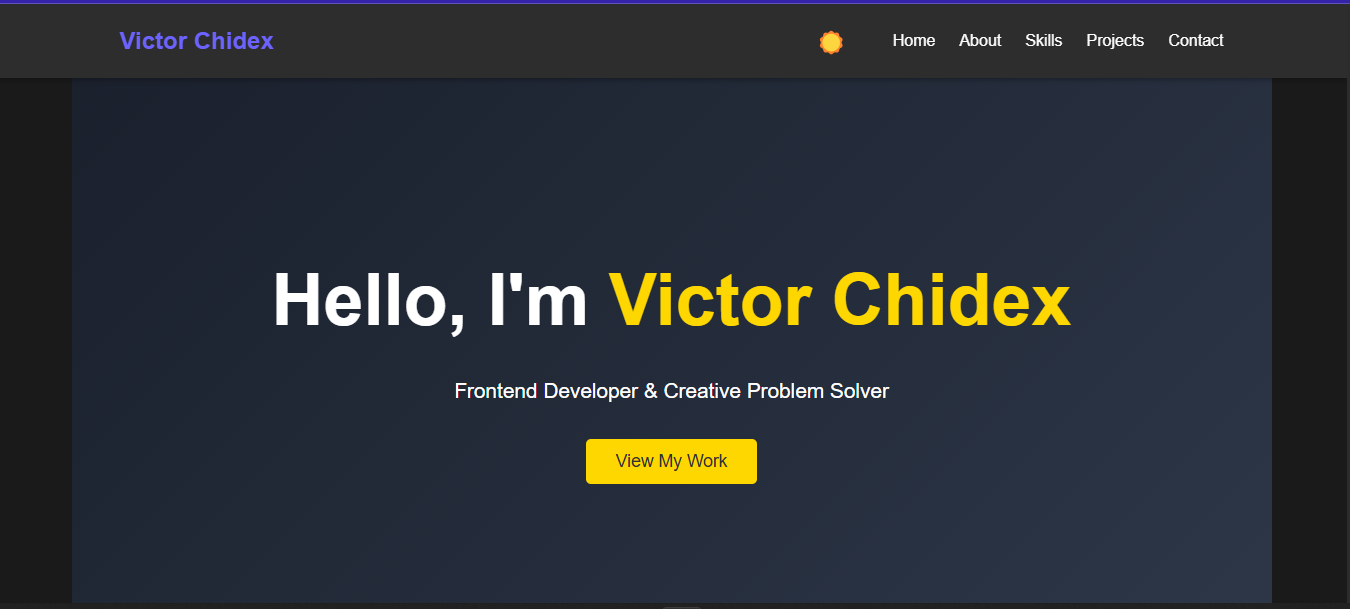
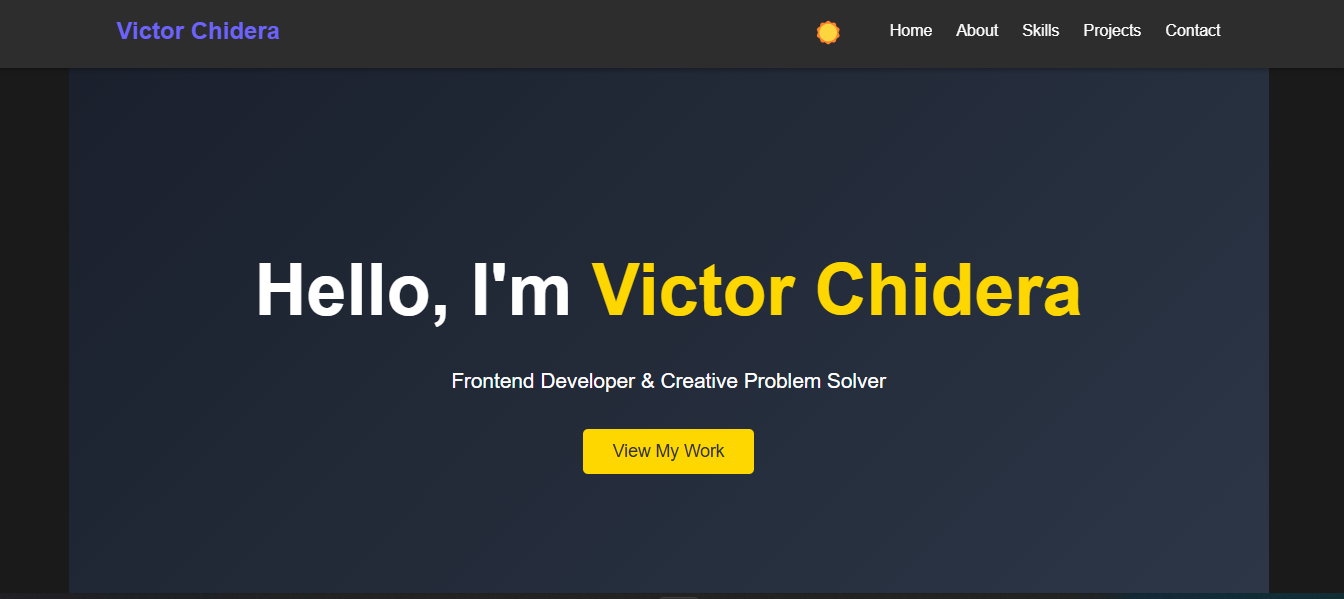
Replaced portfolio website image

diff --git a/projects/portfolio-website.html b/projects/portfolio-website.html
@@ -3,7 +3,7 @@
   <head>
     <meta charset="UTF-8" />
     <meta name="viewport" content="width=device-width, initial-scale=1.0" />
-    <title>Portfolio Website | Victor Chidex</title>
+    <title>Portfolio Website | Victor Chidera</title>
     <link rel="stylesheet" href="../style.css" />
     <link rel="icon" type="image/svg+xml" href="../assets/images/favicon.ico" />
     <link
@@ -19,7 +19,7 @@
     <nav class="navbar">
       <div class="nav-container">
         <div class="logo">
-          <a href="../index.html">Victor Chidex</a>
+          <a href="../index.html">Victor Chidera</a>
         </div>
         <ul class="nav-menu" id="nav-menu">
           <li>
@@ -269,6 +269,44 @@
         </div>
       </div>
     </section>
+
+    <!-- Footer -->
+    <footer class="footer">
+      <div class="footer-content">
+        <p>&copy; 2025 Victor Chidex. Built with 💜 and code.</p>
+        <div class="social-links">
+          <a
+            href="https://github.com/your-username"
+            target="_blank"
+            aria-label="GitHub"
+          >
+            <span>🐙</span>
+          </a>
+          <a
+            href="https://linkedin.com/in/your-profile"
+            target="_blank"
+            aria-label="LinkedIn"
+          >
+            <span>💼</span>
+          </a>
+          <a
+            href="https://twitter.com/your-profile"
+            target="_blank"
+            aria-label="Twitter"
+          >
+            <span>🐦</span>
+          </a>
+          <a href="mailto:your-email@example.com" aria-label="Email">
+            <span>📧</span>
+          </a>
+        </div>
+      </div>
+    </footer>
+
+    <!-- Back to Top Button -->
+    <button id="backToTop" class="back-to-top" aria-label="Back to top">
+      ↑
+    </button>
 
     <script src="../script.js"></script>
   </body>

diff --git a/index.html b/index.html
@@ -3,7 +3,7 @@
   <head>
     <meta charset="UTF-8" />
     <meta name="viewport" content="width=device-width, initial-scale=1.0" />
-    <title>Victor Chidex - Developer Portfolio</title>
+    <title>Victor Chidera - Developer Portfolio</title>
     <!-- Add these favicon lines -->
     <link rel="icon" type="image/svg+xml" href="assets/images/favicon.ico" />
     <link
@@ -20,7 +20,7 @@
     <nav class="navbar">
       <div class="nav-container">
         <!-- Logo -->
-        <div class="logo">Victor Chidex</div>
+        <div class="logo">Victor Chidera</div>
 
         <!-- Navigation Menu with Theme Toggle INSIDE -->
         <ul class="nav-menu" id="nav-menu">
@@ -52,7 +52,7 @@
     <!-- Hero Section -->
     <section id="home" class="hero">
       <div class="hero-content">
-        <h1>Hello, I'm <span class="highlight">Victor Chidex</span></h1>
+        <h1>Hello, I'm <span class="highlight">Victor Chidera</span></h1>
         <p>Frontend Developer & Creative Problem Solver</p>
         <button class="cta-button">View My Work</button>
       </div>
